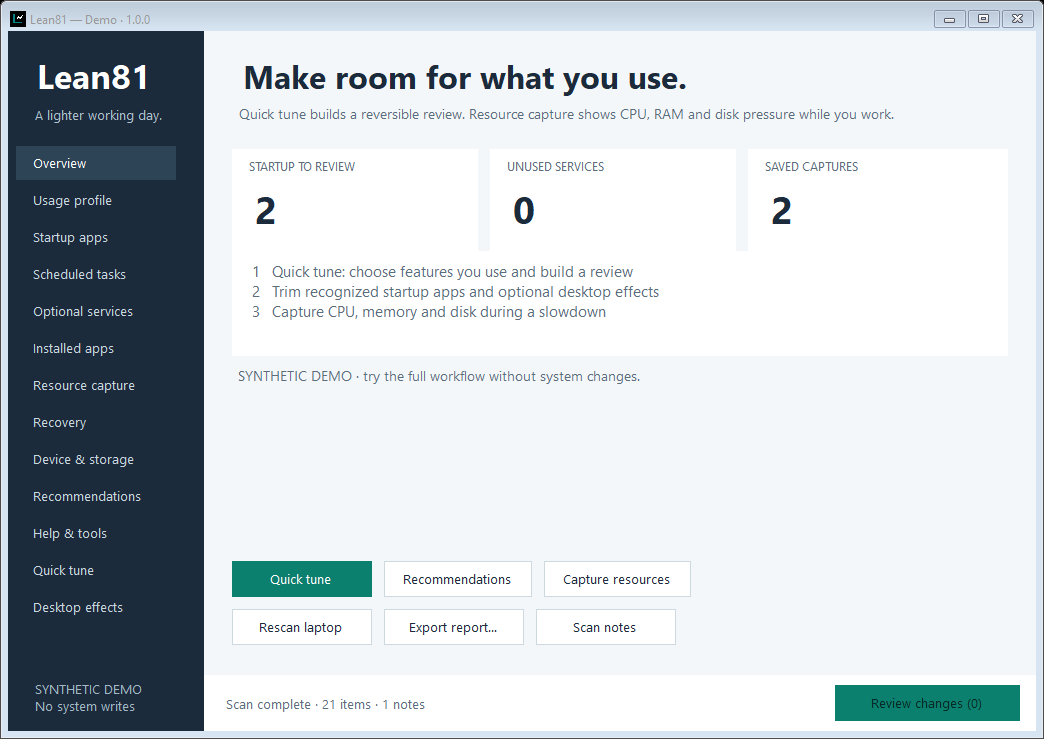
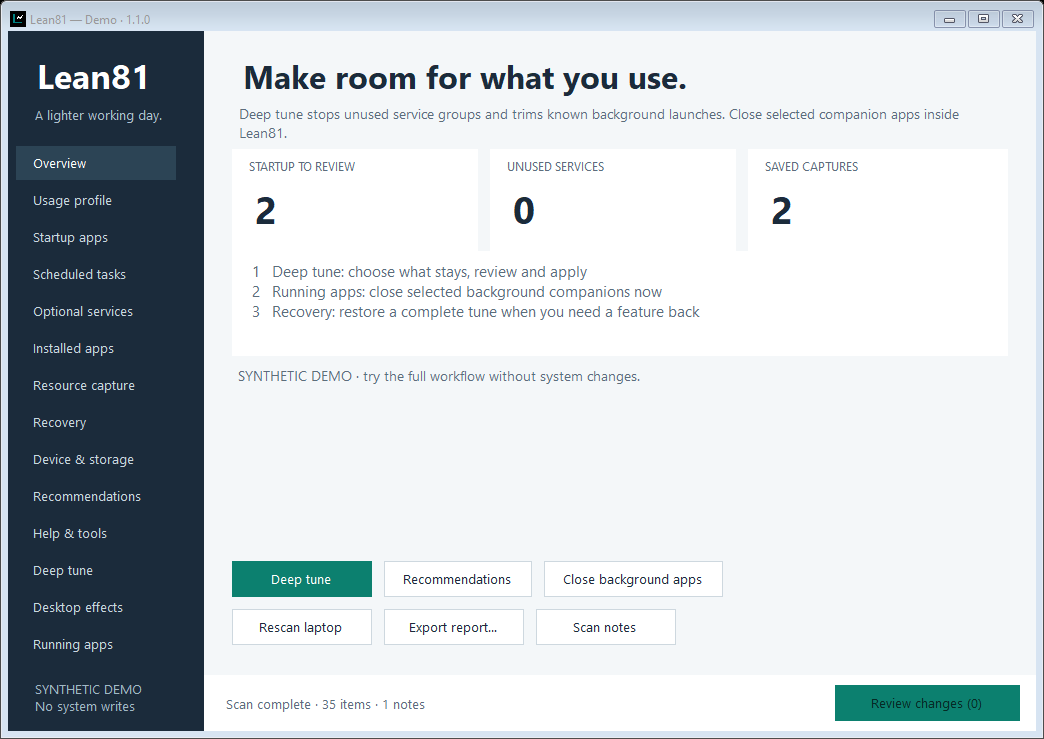
Finish active tuning workflow, grouped demo validation and 1.1 release guides

diff --git a/tests/DeepTests.cs b/tests/DeepTests.cs
@@ -75,6 +75,8 @@ static partial class Tests
         Test("startup shortcuts reject traversal executable files and invalid backups", () => { foreach (string name in new[] { @"..\Example.lnk", "Example.exe", @"C:\Example.lnk" }) Throws(() => Policy.Validate(ShortcutState(name), Unused(), false)); var s = ShortcutState(); s.Value = "not-base64"; Throws(() => Policy.Validate(s, Unused(), false)); });
         Test("startup shortcut security/input targets are kept", () => { var s = ShortcutState(); s.Value = Convert.ToBase64String(Encoding.Unicode.GetBytes(@"C:\Program Files\Windows Defender\MSASCui.exe")); s.Definition = Product.Hash(s.Value); Throws(() => Policy.Validate(s, Unused(), false)); });
         Test("startup shortcut definition mismatches are refused", () => { var s = ShortcutState(); s.Definition = Product.Hash("changed"); Throws(() => Policy.Validate(s, Unused(), false)); });
+        Test("shortcut comparisons ignore only automatic ACL inheritance bookkeeping", () => { var a = "O:BAG:BAD:P(A;;FA;;;BA)(A;;FA;;;SY)"; var b = "O:BAG:BAD:PAI(A;;FA;;;BA)(A;;FA;;;SY)"; Assert(StartupFiles.SecurityFingerprint(a) == StartupFiles.SecurityFingerprint(b)); });
+        Test("shortcut owner permission and DACL-protection edits remain conflicts", () => { var a = "O:BAG:BAD:P(A;;FA;;;BA)(A;;FA;;;SY)"; foreach (var b in new[] { "O:SYG:BAD:P(A;;FA;;;BA)(A;;FA;;;SY)", "O:BAG:BAD:P(A;;FR;;;BA)(A;;FA;;;SY)", "O:BAG:BAD:(A;;FA;;;BA)(A;;FA;;;SY)" }) Assert(StartupFiles.SecurityFingerprint(a) != StartupFiles.SecurityFingerprint(b)); });
         Test("startup shortcuts retain timestamps and security in receipt validation", () => { var s = ShortcutState(); var r = new ChangeEngine(new Fake(s), new MemoryJournals()).Apply(new[] { Item(s) }, Unused(), null); ChangeEngine.ValidateReceipt(r, "test-scope"); Assert(r.Entries[0].Original.FileSecurity == s.FileSecurity && r.Entries[0].Expected.FileSecurity == null); });
         Test("ordinary receipts from older versions remain ungrouped", () => { var s = Startup(); var r = new ChangeEngine(new Fake(s), new MemoryJournals()).Apply(new[] { Item(s) }, Unused(), null); Assert(r.GroupId == null && r.GroupSequence == 0); ChangeEngine.ValidateReceipt(r, "test-scope"); });
         Test("invalid group metadata is rejected before any write", () => { var s = Startup(); var b = new Fake(s); Throws(() => new ChangeEngine(b, new MemoryJournals()).Apply(new[] { Item(s) }, Unused(), null, "bad", 1)); Assert(b.Writes == 0); });

diff --git a/src/Lean81/Program.cs b/src/Lean81/Program.cs
@@ -46,7 +46,7 @@ namespace Lean81
                                 if (page < count) { form.SmokePage(page); form.Refresh(); form.ValidateSmokeLayout(); form.SaveScreenshot(Path.Combine(output, "page-" + page + ".png")); page++; }
                                 else if (page < count * 2) { form.ClientSize = new System.Drawing.Size(980, 620); form.SmokePage(page - count); form.Refresh(); form.ValidateSmokeLayout(); form.SaveScreenshot(Path.Combine(output, "small-" + (page - count) + ".png")); page++; }
                                 else if (page == count * 2) { timer.Stop(); form.SmokeReviewScreenshot(Path.Combine(output, "review-dialog.png")); form.SmokeSetupScreenshot(Path.Combine(output, "quick-setup.png")); form.SmokeComparisonScreenshot(Path.Combine(output, "comparison.png")); form.SmokeResourcesScreenshot(Path.Combine(output, "resources.png")); form.SmokeReport(output); form.SmokeInteractions(); form.SmokeTuningInteractions(); form.SmokeActiveActions(); page++; timer.Start(); }
-                                else { timer.Stop(); File.WriteAllText(Path.Combine(output, "gui-smoke.txt"), "PASS: " + count + " pages at two sizes, cancelled review/setup/report dialogs, saved-result comparison, generated report variants, checkbox/filter/protection interactions, quick-tune preset isolation, desktop selection, resource sorting, missing-data chart rendering and demo tool launches."); form.Close(); }
+                                else { timer.Stop(); File.WriteAllText(Path.Combine(output, "gui-smoke.txt"), "PASS: " + count + " pages at two sizes, cancelled review/setup/report dialogs, saved-result comparison, generated report variants, checkbox/filter/protection interactions, quick-tune preset isolation, desktop selection, resource sorting, missing-data chart rendering, dependency tune/group restore, reviewed demo app closure and demo tool launches."); form.Close(); }
                             }
                             catch (Exception ex) { smokeError = ex; timer.Stop(); form.Close(); }
                         };

diff --git a/src/Lean81/ActivePages.cs b/src/Lean81/ActivePages.cs
@@ -70,6 +70,11 @@ namespace Lean81
             ShowPage(11); var presets = Descendants(content).OfType<ComboBox>().Single(); presets.SelectedIndex = 5;
             var answers = ReadChecks(Descendants(content).OfType<CheckBox>().Take(FeatureLabels.Length).ToArray());
             if (Product.Json().Serialize(answers) != Product.Json().Serialize(Profiles.Preset(4))) throw new InvalidOperationException("Maximum-reduction answers are not connected to the deep-tune page.");
+            var initial = report.Items.ToDictionary(i => i.Id, i => backend.Read(i.Before).Fingerprint());
+            var engine = new DeepTuneEngine(backend, journals);
+            var tune = engine.Apply(DeepTunePlan.Build(backend.Scan(answers), answers, true, false, true), null);
+            if (tune.Status != "Applied" || tune.Receipts.Count < 2 || engine.Restore(tune.GroupId, null) != tune.Applied) throw new InvalidOperationException("Demo dependency tune/group restore failed.");
+            foreach (var item in report.Items) if (backend.Read(item.Before).Fingerprint() != initial[item.Id]) throw new InvalidOperationException("Demo group restore did not return the original settings.");
             ShowPage(13); var grid = Descendants(content).OfType<DataGridView>().Single();
             if (grid.Rows.Count == 0 || grid.Rows.Cast<DataGridViewRow>().Any(r => ((RunningApp)r.Tag).Foreground && !r.Cells[0].ReadOnly)) throw new InvalidOperationException("Foreground companion protection is missing.");
             var selectedApp = runningApps.First(a => !a.Foreground);

diff --git a/src/Lean81/MainForm.cs b/src/Lean81/MainForm.cs
@@ -134,6 +134,8 @@ namespace Lean81
             pageLayout = new TableLayoutPanel { Dock = DockStyle.Fill, ColumnCount = 1, RowCount = 3, Margin = Padding.Empty };
             pageLayout.ColumnStyles.Add(new ColumnStyle(SizeType.Percent, 100)); pageLayout.RowStyles.Add(new RowStyle(SizeType.Absolute, 48)); pageLayout.RowStyles.Add(new RowStyle(SizeType.Absolute, 48)); pageLayout.RowStyles.Add(new RowStyle(SizeType.Percent, 100)); content.Controls.Add(pageLayout);
             for (int i = 0; i < navigation.Count; i++) { navigation[i].BackColor = i == page ? Color.FromArgb(44, 68, 85) : Ink; navigation[i].ForeColor = i == page ? Color.White : Color.FromArgb(202, 215, 224); }
+            var navigationHost = navigation[index].Parent as ScrollableControl;
+            if (navigationHost != null) navigationHost.ScrollControlIntoView(navigation[index]);
             if (index == 0) Overview(); else if (index == 1) Profile(); else if (index >= 2 && index <= 4) Inventory(index == 2 ? "startup" : index == 3 ? "task" : "service"); else if (index == 5) Apps(); else if (index == 6) CapturePage(); else if (index == 7) Recovery(); else if (index == 8) DevicePage(); else if (index == 9) RecommendationsPage(); else if (index == 10) ToolsPage(); else if (index == 11) QuickTunePage(); else if (index == 12) Inventory("setting"); else RunningAppsPage();
             UpdateSelection();
         }

diff --git a/src/Lean81/RunningApps.cs b/src/Lean81/RunningApps.cs
@@ -158,7 +158,8 @@ namespace Lean81
                 try { using (var p = Process.GetProcessById(approved.Pid)) p.CloseMainWindow(); } catch (InvalidOperationException) { }
                 if (WaitForSingleObject(handle, 700) == 0) return new AppCloseResult { Pid = approved.Pid, Name = approved.Name, Closed = true, Status = "Closed" };
                 if (!force) return new AppCloseResult { Pid = approved.Pid, Name = approved.Name, Status = "Still running; force-close option is available after review" };
-                if (ForegroundFamily() == current.Family) throw new InvalidOperationException("This app moved to the foreground; it was kept.");
+                var beforeForce = Read(handle, approved.Pid);
+                if (beforeForce == null || beforeForce.Started != approved.Started || beforeForce.Owner != approved.Owner || ForegroundFamily() == current.Family) throw new InvalidOperationException("This app's identity, critical or foreground state changed; it was kept.");
                 if (!TerminateProcess(handle, 0)) throw new Win32Exception(Marshal.GetLastWin32Error());
                 bool exited = WaitForSingleObject(handle, 1500) == 0;
                 return new AppCloseResult { Pid = approved.Pid, Name = approved.Name, Closed = exited, Status = exited ? "Force closed" : "Exit requested; still finishing I/O" };

diff --git a/README.md b/README.md
@@ -1,55 +1,56 @@
 # Lean81
 
-**Make room for what you use.**
+**Actively cut background load on an older laptop.**
 
-A small native Windows app for older laptops that struggle with CPU spikes, limited RAM and busy disks. Choose unused features, review reversible changes and capture what is happening during a slowdown. Built for **Windows 8.1 / .NET Framework 4.5.1**. No Python, bundled browser, installer or permanent service.
+Lean81 stops reviewed unused services, prevents recognized background software from returning at sign-in, and closes selected companion apps inside the same small Windows app. It targets Windows 8.1 / .NET Framework 4.5.1 and needs no Python, bundled browser, installer or permanent service.
 
-[Download Lean81 1.0](https://github.com/HamWebDevs/Lean81/releases/tag/v1.0.0) · [Quick start](docs/QUICKSTART.txt) · [Feature guide](docs/FEATURES.md) · [Recovery](docs/RECOVERY.md)
+[Download Lean81 1.1](https://github.com/HamWebDevs/Lean81/releases/tag/v1.1.0) · [Quick start](docs/QUICKSTART.txt) · [Deep-tune guide](docs/FEATURES.md) · [Recovery](docs/RECOVERY.md)
 
-![Lean81 Quick tune with synthetic data](docs/screenshots/quick-tune.png)
+![Deep tune with synthetic data](docs/screenshots/deep-tune.png)
 
-## New in 1.0
+## Start here
 
-- **Quick tune:** answer what you use, optionally include desktop effects, then build one explicit review. Original settings are saved before any changes.
-- **Browser / cloud gaming preset:** a starting point for a laptop mainly used for browsing and streaming games. Printing, Bluetooth, search and Superfetch stay checked until you choose otherwise.
-- **13 optional services:** includes separate choices for scanning, portable-device synchronization, error reporting and moved-file link tracking. Unused features and dependency checks control eligibility.
-- **Reversible desktop effects:** taskbar animations, desktop Peek and icon-label shadows. Restore the exact original DWORD or its original absence; sign out and back in to refresh Explorer.
-- **Resource capture:** CPU, available RAM, disk activity/throughput/queue, page-ins, commit pressure and kernel pools. Missing counters remain unknown.
-- **Sortable process leaders:** CPU, working-set RAM, private memory and read/write I/O, including memory-heavy apps that use little CPU. Up to 20 accessible leaders per sample.
-- **Better evidence:** CPU/RAM/disk charts, qualified findings, resource summaries in local reports and disk comparisons only when both captures have complete disk coverage.
+1. Extract **Lean81-1.1.0-portable.zip** and open **Lean81.exe**.
+2. In **Deep tune**, click **Maximum reduction**. Check anything you need to keep: this preset assumes no printing, Bluetooth, indexing, Superfetch, TV, sync, chat or local game launchers. Compatibility assistance and Windows themes stay kept unless you opt out.
+3. Choose **Review deep tune**, read the actual installed items and apply. Services are stopped now and kept disabled. Startup changes prevent future launches. If administrator permission is needed, use the same Windows account and build the review again after elevation.
+4. Open **Running apps** to close selected recognized companions now. Normal close is the default; force close is a separate option for tray/helper processes. Review the list before closing anything.
+5. Use **Recovery → Restore tune group** to undo a whole tune. Closed apps and their unsaved state are not restored automatically; reopen apps yourself.
 
-![Lean81 resource details with synthetic data](docs/screenshots/resources.png)
+No capture, external analysis app or trace export is needed to tune the laptop.
 
-## Get started
+## What changed in 1.1
 
-1. Download **Lean81-1.0.0-portable.zip**, extract it and open **Lean81.exe**. The standalone EXE is also attached to the release.
-2. Open **Quick tune**. Pick **Browser / cloud gaming laptop** if useful, then check every answer. Keep a feature checked if you use it or are unsure.
-3. To experiment with indexing or Superfetch, untick those specific answers and read the tradeoffs. Disabling preloading can slow app launches.
-4. Choose **Build my review**, read the list and apply. If Windows asks for administrator permission, use the same account; the elevated app rescans and you build the review again.
-5. In **Startup apps**, select recognized apps you do not need at sign-in. Use **Scheduled tasks** and **Installed apps** for further individual review.
-6. Open **Resource capture**, record 30–120 seconds during a slowdown and inspect **Memory, disk & processes**. Set a baseline and repeat the same workload after changes.
-7. Use **Recovery** to inspect or restore original settings. Keep `%ProgramData%\Lean81` and `%LocalAppData%\Lean81` when upgrading.
+- **Dependency-aware deep tuning:** an unused service provider can now be stopped after its reviewed dependents. Batches share one recovery group and restore in the reverse dependency order.
+- **26 optional service choices:** includes indexing, Superfetch, sharing, printing, scanning, Media Center, optional diagnostic reporting/helpers, compatibility assistance, themes and selected app updater/launcher services. Only installed services are shown.
+- **Broader startup control:** supported Run entries plus bounded user/common Startup-folder `.lnk` and `.url` shortcuts. Original shortcut files move to protected same-volume backups; recovery preserves bytes, timestamps, ownership and permission rules.
+- **Recognized startup/task selection:** unused launcher, sync, chat, music and updater categories can enter the deep-tune review. Unknown entries require individual review; Microsoft/system scheduled tasks stay inspection only.
+- **Close apps now:** a fixed companion catalog, same-user/session checks, fresh PID/creation-time checks, critical-process protection and foreground-family protection. No blanket process killing, browser closure or automatic relaunching.
+- **Optional performance plan:** select an existing High performance power plan while on mains power. It can use more energy and produce more heat; it stays active until changed or restored. No power-plan internals are rewritten.
 
-An idle service may cost almost nothing. A two-second sample can miss a brief spike. Process I/O includes network and device operations and is **not** per-process disk utilization. Aggregate disk readings can hide a single busy drive. Lean81 helps identify useful changes; it cannot guarantee a particular speed improvement.
+![Running apps with synthetic data](docs/screenshots/running-apps.png)
 
-## Recovery and boundaries
+## A way back
 
-Every change uses an allowlisted backend, fresh-state checks, a protected intent journal and post-write verification. Recovery checks the whole pending receipt before writing and stops for independent edits. Existing 0.1–0.3 receipts and saved workspaces remain supported.
+Original settings are saved before each configuration batch, then checked after writing. Recovery checks a tune group before restoring it and refuses independent edits. Windows does not provide one atomic transaction for all these components: a failed operation can leave earlier changes applied, with receipts for inspection.
 
-Networking, security, input, core OS and update services remain protected. No RAM cleaner, registry cleaner, blanket process killing, pagefile/timer/kernel tweaks, driver removal or automatic uninstallation is included. Inspection never runs discovered startup commands, task actions or uninstall strings. Desktop settings are a fixed three-value allowlist, not arbitrary registry editing.
+Keep `%ProgramData%\Lean81`, including its startup backups, and `%LocalAppData%\Lean81` when upgrading. Existing 0.1–1.0 receipts and workspaces remain supported. New feature answers default to kept when absent from older preferences.
 
-**The EXE is unsigned.** Windows 8.1 is the API target; physical Windows 8.1 testing remains pending. Automated checks use Windows Server 2022. See [compatibility and diagnostic limits](docs/COMPATIBILITY.md) and [local data/privacy](docs/PRIVACY.md).
+## Measurements and limits
+
+On-demand CPU/RAM/disk capture, process leaders, reports and baseline comparisons remain in the app for optional investigation. Nothing monitors continuously after capture or after Lean81 closes.
+
+Lean81 cannot know every feature you use or turn an older CPU into newer hardware. An idle service may cost almost nothing; disabling prefetch can slow launches. Available RAM is managed by Windows, so no working-set trimming or fake RAM-cleaner score is used. No particular speed increase is promised.
+
+Networking, security, input, core OS and Windows Update stay protected. No registry cleaner, driver removal, pagefile/timer/kernel tweak or automatic app uninstall is included. Inspection never executes discovered commands, task actions or uninstall strings.
+
+The EXE is unsigned. Windows 8.1 is the managed/native API target; automated tests use Windows Server 2022 and physical Windows 8.1 testing remains pending. See [compatibility](docs/COMPATIBILITY.md), [privacy](docs/PRIVACY.md) and [feature details](docs/FEATURES.md).
 
 ## Build and test
-
-On Windows with .NET Framework's C# compiler, PowerShell and Git:
 
 ```powershell
 ./scripts/build.ps1 -Test -Gui -Package
 ```
 
-The script downloads pinned Microsoft 4.5.1 reference assemblies at build time, verifies their hash, compiles C# 5 and creates the portable EXE/ZIP, source ZIP and SHA256 checksums. No build dependencies are downloaded by the released app.
-
-CI also runs disposable native Run/task fixtures on an explicitly opted-in ephemeral Windows runner, real resource capture and a read-only x86 resource-layout probe and device checks, GUI smoke/screenshot checks at two sizes, and browser/print verification of Windows-generated reports. Real installed services and existing scheduled tasks are never toggled by tests. Desktop-setting writes use isolated in-memory tests; native checks only inspect those values.
+C# 5 compiles against pinned Microsoft .NET Framework 4.5.1 reference assemblies. CI adds isolated dependency/recovery/policy tests, disposable native Run/task/shortcut/process fixtures, a read-only x86 resource probe, GUI smoke/screenshots at two sizes and Chromium/mobile/print report verification. It never toggles a real installed service, existing task or existing app process during testing.
 
 Public owner: **HamWebDevs**. MIT licensed. Read [AGENTS.md](AGENTS.md) and [CONTRIBUTING.md](CONTRIBUTING.md) before contributing.

diff --git a/docs/FEATURES.md b/docs/FEATURES.md
@@ -1,8 +1,8 @@
-# Using Lean81 1.0
+# Using Lean81 1.1
 
-## Quick tune
+## Deep tune
 
-Open **Quick tune**, choose a preset if useful and check every answer. Checked means you use the feature, or want to keep it. Unticked means Lean81 may offer its installed optional service for disabling. A service with enabled dependents stays protected. A preset never applies settings.
+Open **Deep tune**, choose a preset if useful and check every answer. Checked means you use the feature, or want to keep it. Unticked means Lean81 may offer its installed optional service for disabling. A service with enabled dependents stays protected. A preset never applies settings.
 
 | Preset | Answers it clears |
 | --- | --- |
@@ -10,18 +10,35 @@ Open **Quick tune**, choose a preset if useful and check every answer. Checked m
 | No home or media sharing | HomeGroup, media sharing, offline network files |
 | No sharing, Bluetooth or touch | The sharing answers above, plus Bluetooth and touch/pen/on-screen keyboard |
 | Browser / cloud gaming laptop | Sharing, touch/pen/on-screen keyboard, scanner/image acquisition, portable-device library synchronization, moved-file link tracking |
+| Maximum reduction | The above plus printing, Bluetooth, indexing, Superfetch, error reporting, optional telemetry/diagnostic helpers, TV and recognized companion categories |
 
-Every preset keeps printing/PDF printers, indexed search, Superfetch and error reporting. The browser preset also keeps Bluetooth. Untick indexed search or Superfetch yourself if you want to test those tradeoffs. Preloading may help application launches; fewer enabled services does not automatically mean a faster laptop.
+The first four presets keep printing/PDF printers, indexed search, Superfetch and error reporting. Maximum reduction changes those answers as described below. The browser preset also keeps Bluetooth. Untick indexed search or Superfetch yourself if you want to test those tradeoffs. Preloading may help application launches; fewer enabled services does not automatically mean a faster laptop.
 
-**Also include the three desktop effects** is a separate opt-in. **Build my review** refreshes the inventory and stages eligible services plus those effects. Read the exact tradeoffs, then apply. Nothing applies just by selecting a preset or building a review. Startup apps and scheduled tasks require individual selection.
+**Also include the three desktop effects** is a separate opt-in. **Review deep tune** refreshes the inventory and stages eligible services plus those effects. Read the exact tradeoffs, then apply. Nothing applies just by selecting a preset or building a review. Startup apps and scheduled tasks require individual selection.
 
 Without administrator rights you can scan, capture, export and save a text review. **Enable changes & rescan** opens Lean81 under the same Windows account. Answers are remembered; build the review again against the fresh elevated scan. No apply plan is imported from a file.
 
+## Active tuning in 1.1
+
+Lean81 starts on **Deep tune**. **Maximum reduction** fills unused-feature answers for a browser/cloud-gaming laptop. Check anything you need before reviewing. It disables indexing/preloading in the proposed answers and assumes no printing, Bluetooth, scanning, TV, sync, chat, music or local game launchers. Compatibility assistance and visual themes stay kept. Disabling preloading can slow application launches; app updaters you turn off need manual attention.
+
+The review may include recognized unused startup entries and third-party tasks, plus optional effects and the separately selected power plan. Unknown startup software still requires individual selection. Service providers are included only if all their enabled dependents are also included. The engine applies leaf services first, refreshes state between passes and records batches in one recovery group. A partial failure leaves earlier successful changes recorded, not silently undone.
+
+**Running apps** is an action page. Select recognized companions to close now. A normal close request is the default; **Force close** may be needed for tray/helper processes. Closing can interrupt sync, downloads, music, calls or unsaved app state. The catalog covers named OneDrive, Dropbox, Steam, Epic, GOG Galaxy, Discord, Slack, Teams, Skype, Spotify and Adobe Creative Cloud executables in matching vendor locations. This is recognition, not a signature/trust verifier. Windows paths, browsers, critical processes, other users/sessions and foreground app families are excluded. PID, creation time, owner, session and executable identity are rechecked on an open handle before an action. Apps are not automatically relaunched.
+
+Startup-folder controls cover regular `.lnk`/`.url` files up to 16 KiB. Targets are never executed or resolved during inspection. Redirected paths, protected content/attributes, unsupported ownership and cross-volume moves are kept for manual review. Same-volume original files move to private backups. Recovery checks bytes and file metadata, restores original ownership/permission rules at the original location and refuses a new file occupying that name. Windows may refresh automatic inheritance bookkeeping flags while retaining the same permission rules.
+
+**Recovery → Restore tune group** restores an entire tune in reverse batch order, including providers before dependents. It checks pending receipts for conflicts before group writes. Previously restored receipts are skipped. Closed apps and app work are not restored by configuration recovery.
+
+The **High performance** plan is opt-in. It selects an existing scheme after a fresh mains-power check, saves the previous scheme and never rewrites plan internals. It can use more heat/energy and remains active until changed or restored; no resident watcher changes it on unplug.
+
+No capture or external analysis app is required for any of these actions.
+
 ## Background choices and desktop effects
 
-**Startup apps** covers supported HKCU/HKLM Run values. Changes affect future sign-ins; already running apps are not killed. **Scheduled tasks** disables future launches, without stopping a running instance. System and recognized security/hardware tasks are inspection only.
+**Startup apps** covers supported HKCU/HKLM Run values and bounded user/common Startup-folder shortcuts. Changes affect future sign-ins; already running apps are not killed. **Scheduled tasks** disables future launches, without stopping a running instance. System and recognized security/hardware tasks are inspection only.
 
-**Optional services** offers 13 allowlisted services across printing, Bluetooth, indexed search, touch input, HomeGroup, media sharing, offline files, Superfetch, scanner/image acquisition, portable-device synchronization, error reporting and file-link tracking. Changing a service disables its start type and stops that service only; dependents are not stopped recursively. Absent services are skipped.
+**Optional services** offers 26 allowlisted services across printing, Bluetooth, indexed search, touch input, HomeGroup, media sharing, offline files, Superfetch, scanner/image acquisition, portable-device synchronization, error reporting and file-link tracking. Changing a service disables its start type and stops that service only; dependents are not stopped recursively. Absent services are skipped.
 
 **Desktop effects** has three fixed Explorer settings: taskbar animations, desktop Peek and icon-label shadows. Selected DWORDs are set to zero. Exact previous values, including absence, are saved. Only existing settings keys are used. Peek uses HKCU\Software\Microsoft\Windows\DWM; the other two use HKCU\Software\Microsoft\Windows\CurrentVersion\Explorer\Advanced. Sign out and back in to refresh Explorer; Lean81 does not restart Explorer or close your apps. Shadows can affect text readability on your wallpaper.
 
@@ -65,6 +82,6 @@ Up to 12 aggregate results are retained, including the chosen baseline. New summ
 
 ## Upgrade
 
-Close the old app and extract the new ZIP into a new folder. Keep `%ProgramData%\Lean81` for original settings and `%LocalAppData%\Lean81` for preferences/history. Receipts and workspaces from 0.1–0.3 remain supported. New feature answers default to kept when absent from older preferences.
+Close the old app and extract the new ZIP into a new folder. Keep `%ProgramData%\Lean81` for original settings and `%LocalAppData%\Lean81` for preferences/history. Receipts and workspaces from 0.1–1.0 remain supported. New feature answers default to kept when absent from older preferences.
 
 The EXE is unsigned and targets Windows 8.1 / .NET Framework 4.5.1. Automated checks use newer Windows; physical Windows 8.1 validation is pending. See [COMPATIBILITY.md](COMPATIBILITY.md) and [PRIVACY.md](PRIVACY.md).

diff --git a/docs/COMPATIBILITY.md b/docs/COMPATIBILITY.md
@@ -15,7 +15,7 @@ Windows 8.1 is no longer supported by Microsoft. Lean81 does not make the operat
 
 ## Limits
 
-- Startup changes cover string values in HKCU Run and HKLM Run (32/64-bit views). RunOnce, startup-folder shortcuts and StartupApproved metadata are not modified. A registered Run entry may already be blocked by Windows Task Manager.
+- Startup changes cover string values in HKCU Run and HKLM Run (32/64-bit views). RunOnce and StartupApproved metadata are not modified. Version 1.1 adds bounded startup-folder shortcut control as described below. A registered Run entry may already be blocked by Windows Task Manager.
 - Scheduled tasks are bounded to 512 inventory items in total and 12 folder levels. Hidden tasks are included where accessible; Microsoft/system, recognized security and hardware tasks are inspection-only. The task's author, path and XML content inform conservative protection heuristics; these are not a software trust/signature verifier.
 - Optional services are a fixed allowlist. A service with a non-disabled dependent is kept. Some devices have OEM dependencies not visible to Windows service dependency checks; review each tradeoff and test features after a change.
 - App inventory reads traditional uninstall registry entries. Store apps and per-app background permissions are outside this release's scope. Use Programs and Features to uninstall apps yourself.
@@ -59,3 +59,21 @@ API references:
 Desktop Peek location reference: https://learn.microsoft.com/en-us/answers/questions/1282989/prevent-window-from-disapearing-when-hovering-anot
 
 The native CI suite additionally compiles an x86 resource probe and checks pointer-sized memory structures, process I/O and bounded capture in a 32-bit process. This runs on modern Windows and is not a Windows 8.1 hardware test.
+
+## Active tuning in 1.1
+
+The fixed optional-service catalog contains 26 choices. Absent services are skipped; not every choice is installed on Windows 8.1. Deep tune can include a provider only when all its enabled dependents are also selected. The normal backend still refuses an enabled dependent at the moment a service is stopped. Live dependents are an eligibility observation rather than part of the modified configuration fingerprint. An outer journal lease spans the passes; recovery groups preflight pending saved states and restore in reverse sequence.
+
+Startup-folder changes cover regular `.lnk` and `.url` files up to 16 KiB under the current user's or common Startup directory, with supported owner/attributes, no redirected parents and a same-volume protected backup. Original file content, timestamps, ownership and ordered permission rules are preserved. Automatic ACL-inheritance bookkeeping is normalized only for comparison; DACL protection and actual ordered access entries remain checked. No shortcut target is launched or resolved.
+
+Reviewed companion closure uses native query-limited handles, process creation times, token user/session, IsProcessCritical and foreground-family checks. Force closure requires explicit selection in the app. It can interrupt app work; no automatic restart/relaunch is attempted. The recognition catalog is not a signature verifier. Native tests only close their own compiled uniquely located fixture process. IsProcessCritical requires Windows 8.1, matching the target.
+
+The optional High performance choice uses PowerGetActiveScheme, PowerEnumerate and PowerSetActiveScheme. It requires mains at apply time, selects an existing plan and saves the original plan; it persists until changed/restored and has no resident plug/unplug watcher. Native CI reads plans without changing one; transaction tests use an in-memory backend.
+
+References:
+
+- https://learn.microsoft.com/en-us/windows/win32/api/processthreadsapi/nf-processthreadsapi-terminateprocess
+- https://learn.microsoft.com/en-us/windows/win32/api/processthreadsapi/nf-processthreadsapi-isprocesscritical
+- https://learn.microsoft.com/en-us/windows/win32/api/powersetting/nf-powersetting-powergetactivescheme
+- https://learn.microsoft.com/en-us/windows/win32/api/powersetting/nf-powersetting-powersetactivescheme
+- https://learn.microsoft.com/en-us/windows/win32/api/powrprof/nf-powrprof-powerenumerate

diff --git a/docs/PRIVACY.md b/docs/PRIVACY.md
@@ -5,7 +5,7 @@ Lean81 has no telemetry, upload endpoint, account, remote plugin loader, residen
 | Data | Location | Contents |
 | --- | --- | --- |
 | Preferences and resource history | `%LocalAppData%\Lean81\workspace.json` | Usage answers, workload label, baseline ID and up to 12 numeric CPU/resource summaries with hashed machine/hardware identities |
-| Recovery receipts | `%ProgramData%\Lean81` | Private exact original settings, including startup command strings; restricted to Administrators and SYSTEM |
+| Recovery receipts | `%ProgramData%\Lean81` | Private original settings, startup command strings, shortcut bytes/security descriptors and saved power-plan GUIDs; restricted to Administrators and SYSTEM |
 | Current process observations | App memory | Process names, IDs, CPU, working-set/private memory, start-time identity and read/write I/O for the active capture |
 | Explicit exports | Your selected file | The format and name options you chose |
 
@@ -18,3 +18,5 @@ HTML reports omit software names by default, encode optional names and contain n
 JSONL traces omit process names by default, but include numeric process IDs, working-set/private memory and read/write I/O. Raw process start-time identities are used only in memory and are not exported. CSV exports omit names by default and neutralize formula-leading names when names are included. Neither format includes startup commands or executable-path fields. A text review contains names and tradeoffs from the selected review, never an executable action plan.
 
 To remove a saved result, use **Saved results & baseline → Delete selected result**. To reset all preferences/history, close Lean81 and remove `workspace.json`. This does not undo Windows settings. To undo settings, use Recovery first. Do not delete the private recovery directory while you still need its original settings.
+
+Version 1.1 also holds recognized running companion names, executable paths, owner SIDs, sessions, PID/creation-time identities and working-set readings in memory for reviewed closure. These are not added to aggregate capture history or uploaded. Startup backup files remain inside the protected ProgramData directory until restored; preserve that directory with its private receipts. No profile-derived apply plan is imported into the elevated process.

diff --git a/docs/RELEASE-1.1.0.md b/docs/RELEASE-1.1.0.md
@@ -1,0 +1,16 @@
+Lean81 1.1 shifts the main workflow to actively reducing background load. No recording or external analysis app is required.
+
+Download **Lean81-1.1.0-portable.zip**, extract it and open **Lean81.exe**. The standalone EXE is also attached.
+
+- **Deep tune:** maximum-reduction browser/cloud-gaming preset, reviewed recognized startup/task choices and 26 optional service choices. Services stop now and remain disabled.
+- **Dependency handling:** stop reviewed dependents before providers, retain one tune group and restore providers first. Enabled dependents outside the review remain protected.
+- **Startup-folder control:** user/common `.lnk` and `.url` shortcuts move to protected same-volume backups. Recovery restores original bytes, timestamps, ownership and permission rules; new shortcuts are never overwritten.
+- **Running apps:** close selected recognized launcher/sync/chat/music companions inside Lean81. Normal close is the default; force close is explicit. Fresh user/session/PID/creation-time, critical-process and foreground-family checks protect unrelated processes. Closing can interrupt app work; reopen closed apps manually.
+- **Power plan:** optional existing High performance scheme, applied only on mains. The prior scheme is saved; the selected plan stays active until changed/restored and can use more heat/energy.
+- **Upgrade support:** existing 0.1–1.0 settings and receipts remain supported. Keep ProgramData\Lean81, including startup-backups, and LocalAppData\Lean81.
+
+Windows security, networking, input, core services and Windows Update stay protected. Microsoft/system scheduled tasks remain inspection only. No blanket process killing, working-set trimming, registry cleaning, pagefile/kernel tweaks, driver removal or automatic uninstall is included.
+
+The EXE is unsigned and targets Windows 8.1 / .NET Framework 4.5.1. Automated checks use newer Windows; physical Windows 8.1 testing remains pending. Native tests mutate only uniquely named disposable fixtures and their own compiled process, not real installed services, existing tasks or existing app processes. No speed increase is guaranteed without testing on the laptop.
+
+EXE, portable ZIP, source ZIP and SHA256 checksums are attached. MIT licensed. Public owner: **HamWebDevs**.

diff --git a/docs/RECOVERY.md b/docs/RECOVERY.md
@@ -21,3 +21,11 @@ Existing version 0.1 receipts remain supported because the receipt schema and ea
 ## Desktop effects in 1.0
 
 Desktop changes use the same protected journal and exact-state recovery engine. If a DWORD was absent, recovery removes only the value created by Lean81; if it existed, the exact original DWORD is restored. Existing keys are never recreated. A later independent edit stops recovery. Sign out and back in to refresh Explorer after applying or restoring effects.
+
+## Deep-tune groups and shortcuts in 1.1
+
+Deep-tune passes share a group identity and sequence. Select a group receipt and Restore tune group to check pending entries before writes, then restore the newest pass first. This restores service providers before dependents. A later external change stops the group check. Per-receipt recovery remains available. Apply/restore are sequential operations; failures after writes are recorded and may need manual inspection.
+
+Startup `.lnk`/`.url` files move to ProgramData\Lean81\startup-backups on the same volume. Private receipts retain their original content, timestamps and security descriptor. Restoring checks the backup and refuses a new file at the original name, moves the retained file back, then restores original owner and permission rules. Automatic inheritance bookkeeping flags may change; ordered access rules and DACL protection still participate in conflict checks. Preserve the whole Lean81 ProgramData directory, including startup-backups. If a failed permissions operation leaves a partial state, inspect the receipt before manual repair; do not edit receipts to force recovery.
+
+Power-plan recovery selects the saved original GUID if that scheme still exists. Closed companion apps are not configuration changes and are not relaunched by Recovery. Reopen them yourself; unsaved app work cannot be recovered by Lean81.

diff --git a/CHANGELOG.md b/CHANGELOG.md
@@ -1,5 +1,15 @@
 # Changelog
 
+## 1.1.0
+
+- Make Deep tune the starting page and add a maximum-reduction browser/cloud-gaming preset.
+- Expand optional services to 26 choices and include recognized unused startup/third-party-task categories in one review.
+- Apply service dependency passes under a shared lease; group receipts and restore providers before dependents, with group conflict checks before writes.
+- Move supported Startup-folder shortcuts to protected same-volume backups; restore original content, metadata, ownership and permission rules.
+- Add reviewed same-user/session companion-app closure with creation-time, critical-process and foreground-family protections. Keep normal close and force close distinct.
+- Add an opt-in existing High performance plan with AC preflight and original-scheme recovery.
+- Preserve legacy receipts/workspaces and add isolated dependency/group/app/shortcut policy checks plus disposable native shortcut/process fixtures.
+
 ## 1.0.0
 
 - Add Quick tune with a browser/cloud-gaming preset and an explicit combined review of unused services and optional desktop effects.
